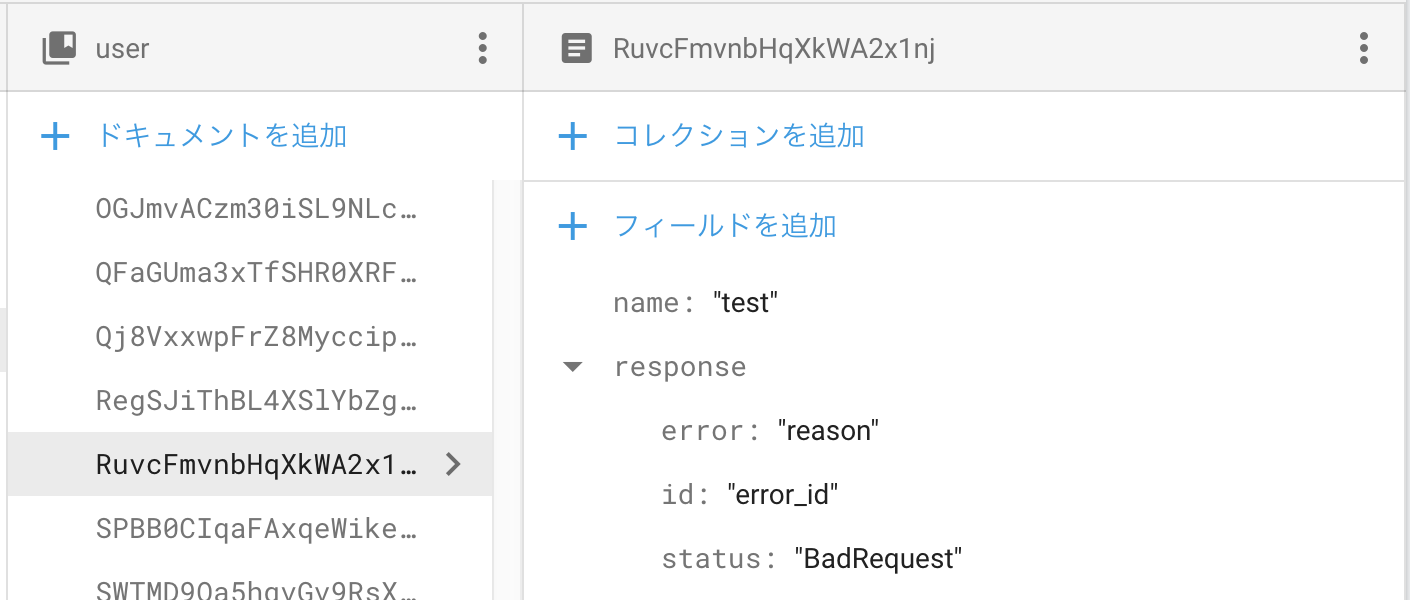
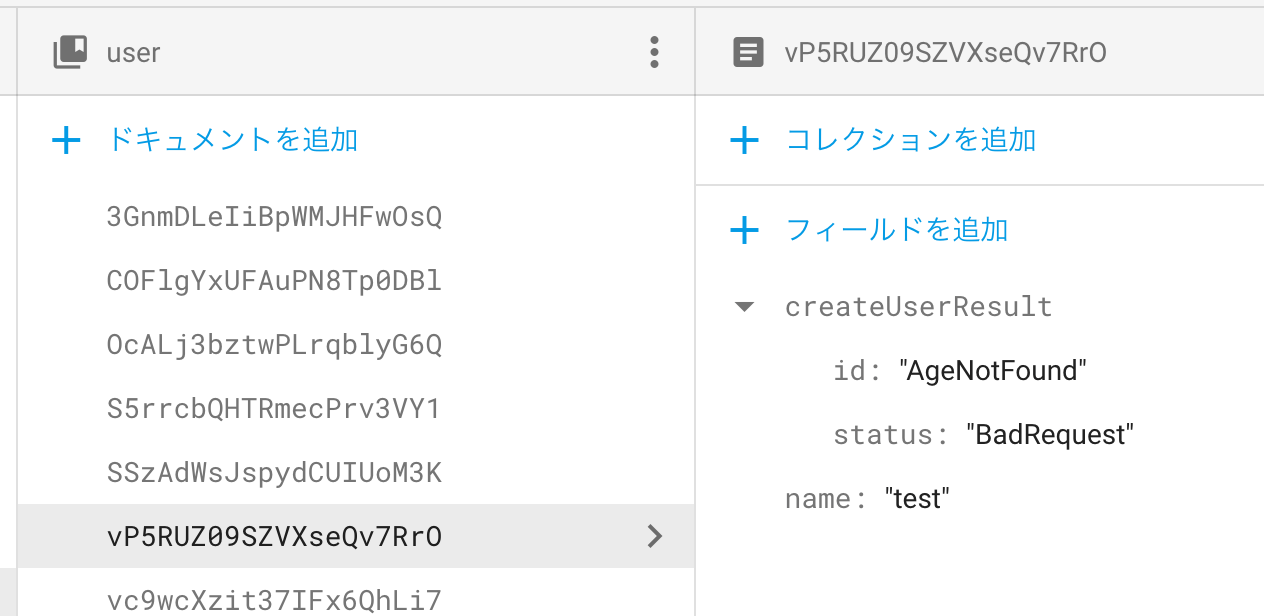
update documents

diff --git a/README.md b/README.md
@@ -28,7 +28,7 @@ When Cloud Functions completes successfully, call `setOK()`.
 It is 200 in http.
 
 ```ts
-new EventResponse.Result(user).setOK()
+new EventResponse.Result(user, 'prefix').setOK()
 ```
 
 <img src="https://raw.githubusercontent.com/starhoshi/event-response/master/docs/ok.png" width='70%' />
@@ -40,7 +40,7 @@ When Cloud Functions fails on client side problems such as invalid parameters, c
 It is 400 in http.
 
 ```ts
-new EventResponse.Result(user).setBadRequest('error_id', 'error reason')
+new EventResponse.Result(user, 'prefix').setBadRequest('error_id', 'error reason')
 ```
 
 <img src="https://raw.githubusercontent.com/starhoshi/event-response/master/docs/badrequest.png" width='70%' />
@@ -52,7 +52,7 @@ If an error occurs on the server side, call `setInternalError`. And you can set 
 It is 500 in http.
 
 ```ts
-new EventResponse.Result(user).setInternalError('error_id', 'error reason')
+new EventResponse.Result(user, 'prefix').setInternalError('error_id', 'error reason')
 ```
 
 <img src="https://raw.githubusercontent.com/starhoshi/event-response/master/docs/internal.png" width='70%' />
@@ -85,14 +85,14 @@ You can set 3 pattens.
 exports.updateUser = functions.firestore.document('users/{userId}')
   .onCreate(async event => {
     if (!event.data.data().name) {
-      return new EventResponse.Result(event.data.ref).setBadRequest('NameNotFound', 'User.name not found')
+      return new EventResponse.Result(event.data.ref, 'updateUser').setBadRequest('NameNotFound', 'User.name not found')
     }
 
     try {
       await event.data.ref.update({name: 'new name'})
-      await new EventResponse.Result(event.data.ref).setOK()
+      await new EventResponse.Result(event.data.ref, 'updateUser').setOK()
     } catch (error) {
-      await new EventResponse.Result(event.data.ref).setInternalError('NameUpdateFailed', error.toString())
+      await new EventResponse.Result(event.data.ref, 'updateUser').setInternalError('NameUpdateFailed', error.toString())
       return Promise.reject(error)
     }
 
@@ -105,9 +105,9 @@ The result can be got as follows.
 ```ts
 admin.firestore().doc('user/1000').get().then(s => {
   const user = s.data())
-  const status = user.result.status
-  const id = user.result.id
-  const error = user.result.error
+  const status = user.updateUserResult.status
+  const id = user.updateUserResult.id
+  const error = user.updateUserResult.error
 }
 ```
 
